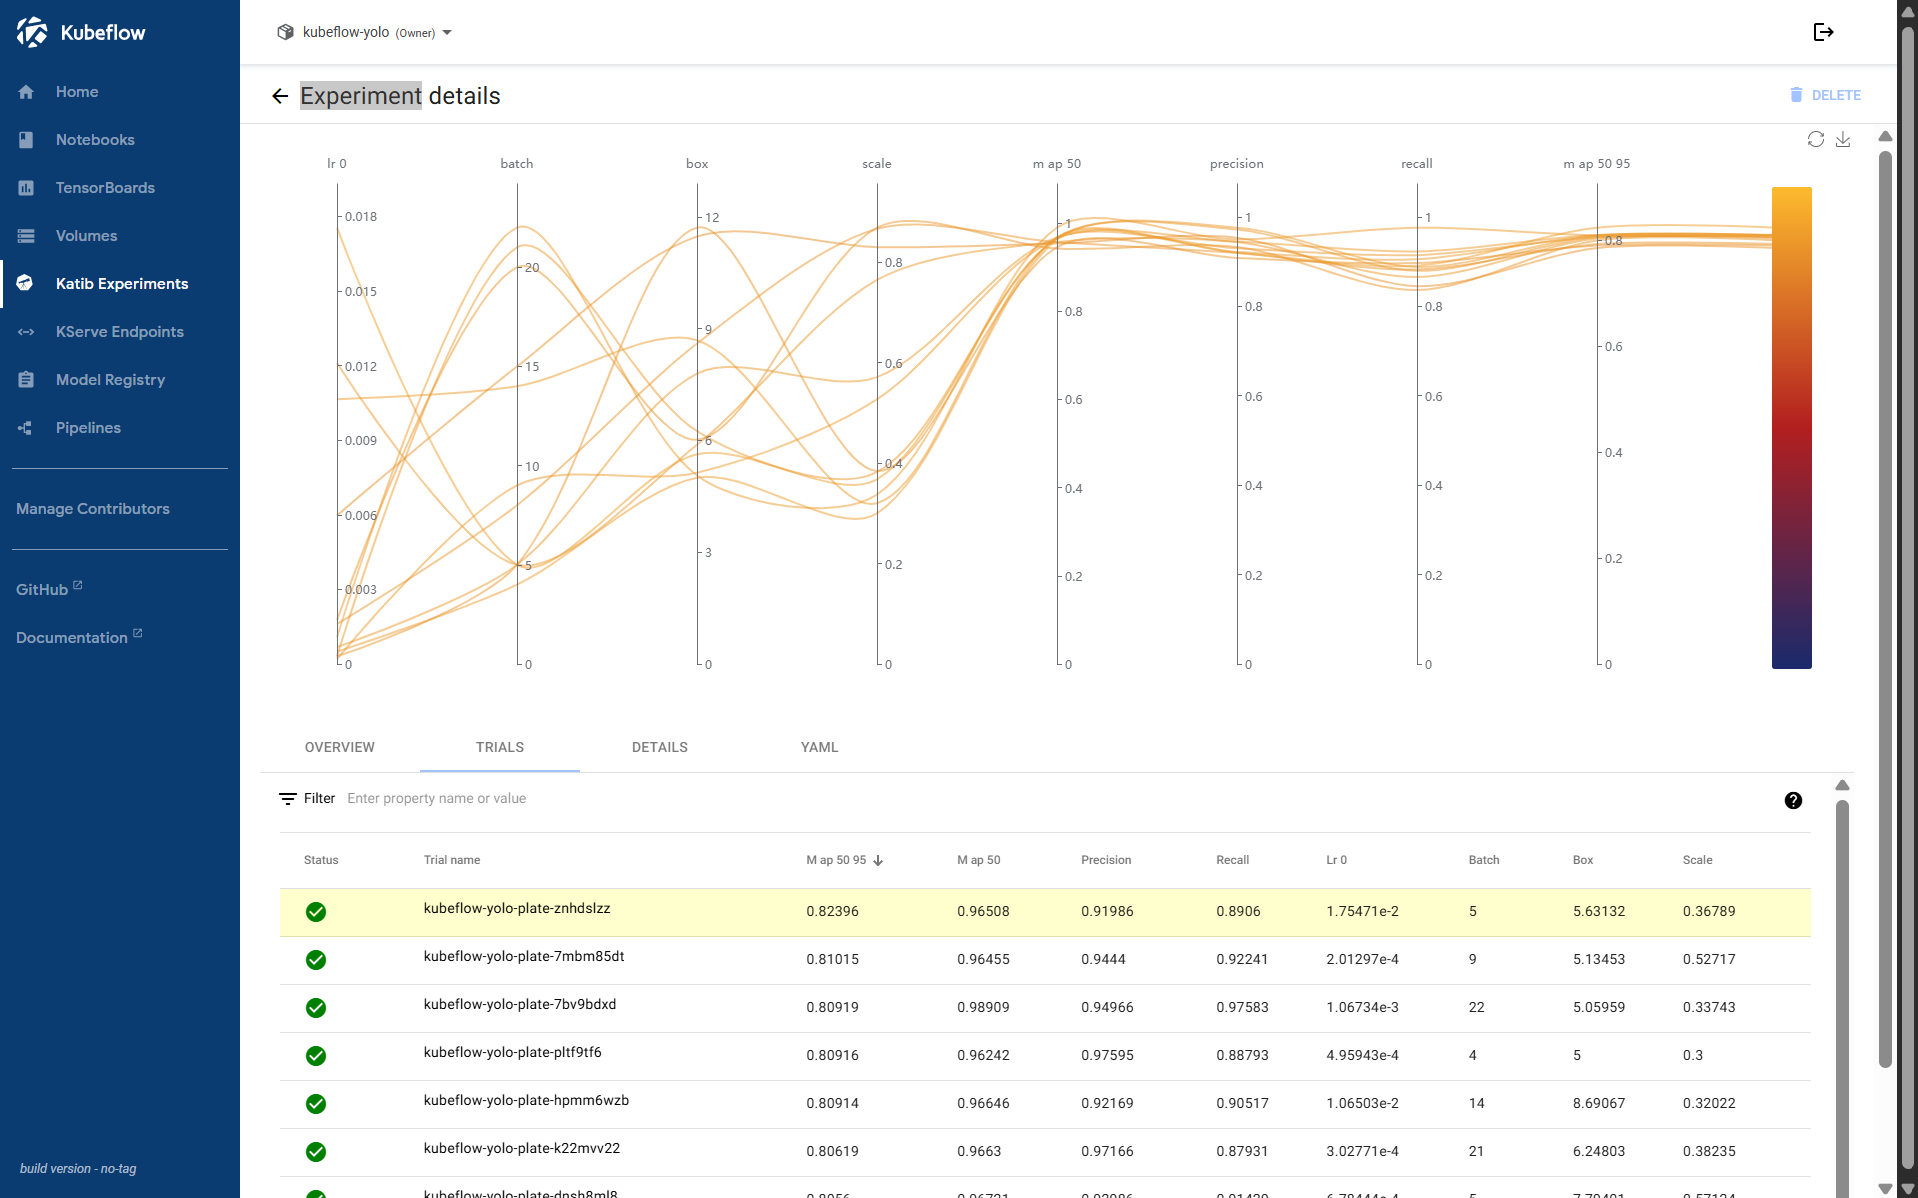
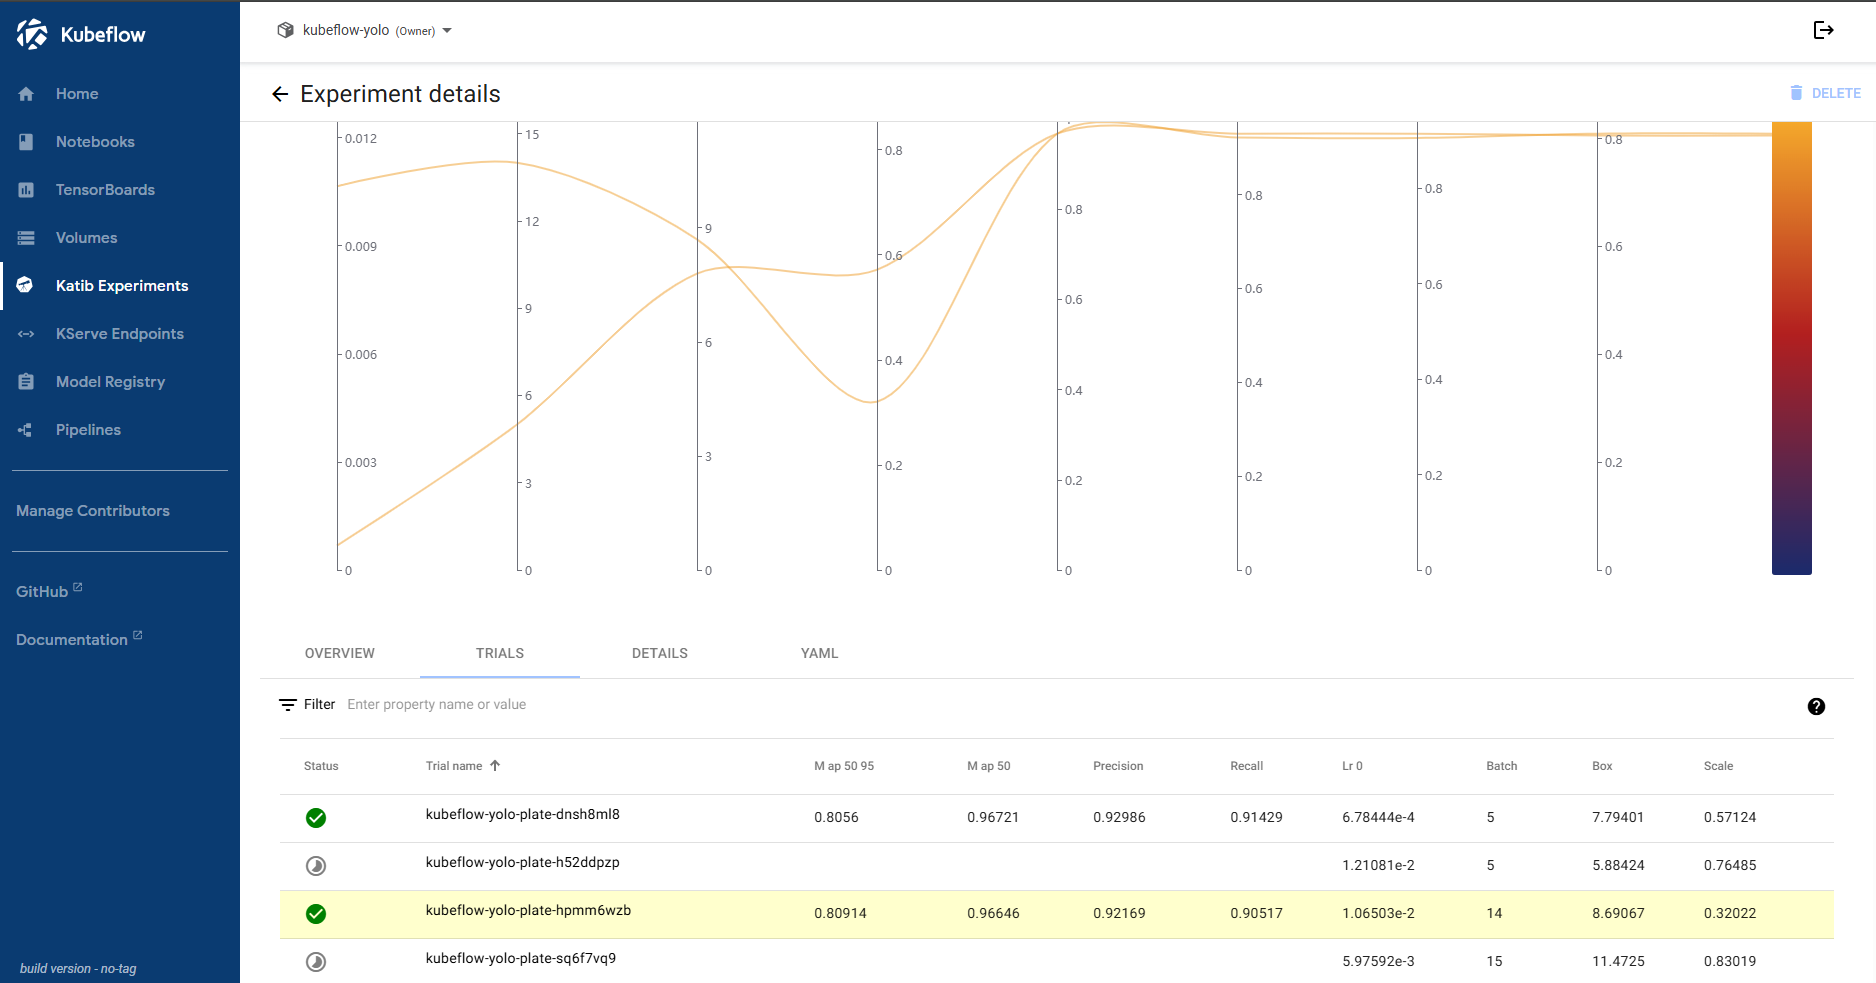
nb: kfp debug

diff --git a/docs/04_kubeflow_katib.md b/docs/04_kubeflow_katib.md
@@ -6,6 +6,7 @@
   - [Katib](#katib)
     - [Build and push to ECR](#build-and-push-to-ecr)
     - [Run the experiment](#run-the-experiment)
+  - [MLflow tracking](#mlflow-tracking)
   - [Runbook](#runbook)
 
 ---
@@ -71,6 +72,49 @@ k get job -n kubeflow-yolo
 # kubeflow-yolo-plate-znhdslzz   Complete   1/1           4m12s      11m
 
 ```
+
+- Experiment in action
+
+![kf_katib01](./img/kf_katib01.png)
+
+- Experiment overview
+
+![kf_katib03](./img/kf_katib03.png)
+
+- Experiment plot
+
+![kf_katib02](./img/kf_katib02.png)
+
+- Experiment trials
+
+![kf_katib04](./img/kf_katib04.png)
+
+- Experiment details
+
+![kf_katib04](./img/kf_katib05.png)
+
+---
+
+## MLflow tracking
+
+- Experimen runs
+
+![mlflow_run01](./img/mlflow_run01.png)
+
+- Plot
+
+![mlflow_plot01](./img/mlflow_plot01.png)
+
+- Metrics
+
+![mlflow_metrics01](./img/mlflow_metrics01.png)
+![mlflow_metrics02](./img/mlflow_metrics02.png)
+
+- Artifacts
+
+![mlflow_artifasts01](./img/mlflow_artifasts01.png)
+
+![mlflow_artifasts02](./img/mlflow_artifasts02.png)
 
 ---
 

diff --git a/docs/05_kubeflow_pipeline.md b/docs/05_kubeflow_pipeline.md
@@ -43,6 +43,10 @@ The model registers as `kubeflow-yolo-plate`, version `<run-id>`.
 ## Pipeline
 
 ```sh
+# define kpf token
+kubectl apply -f kubeflow/pipelines/kfp-api-token.yaml
+
+
 pip install kfp kfp-kubernetes
 
 cd ~/kubeflow-yolo/kubeflow/pipelines/src
